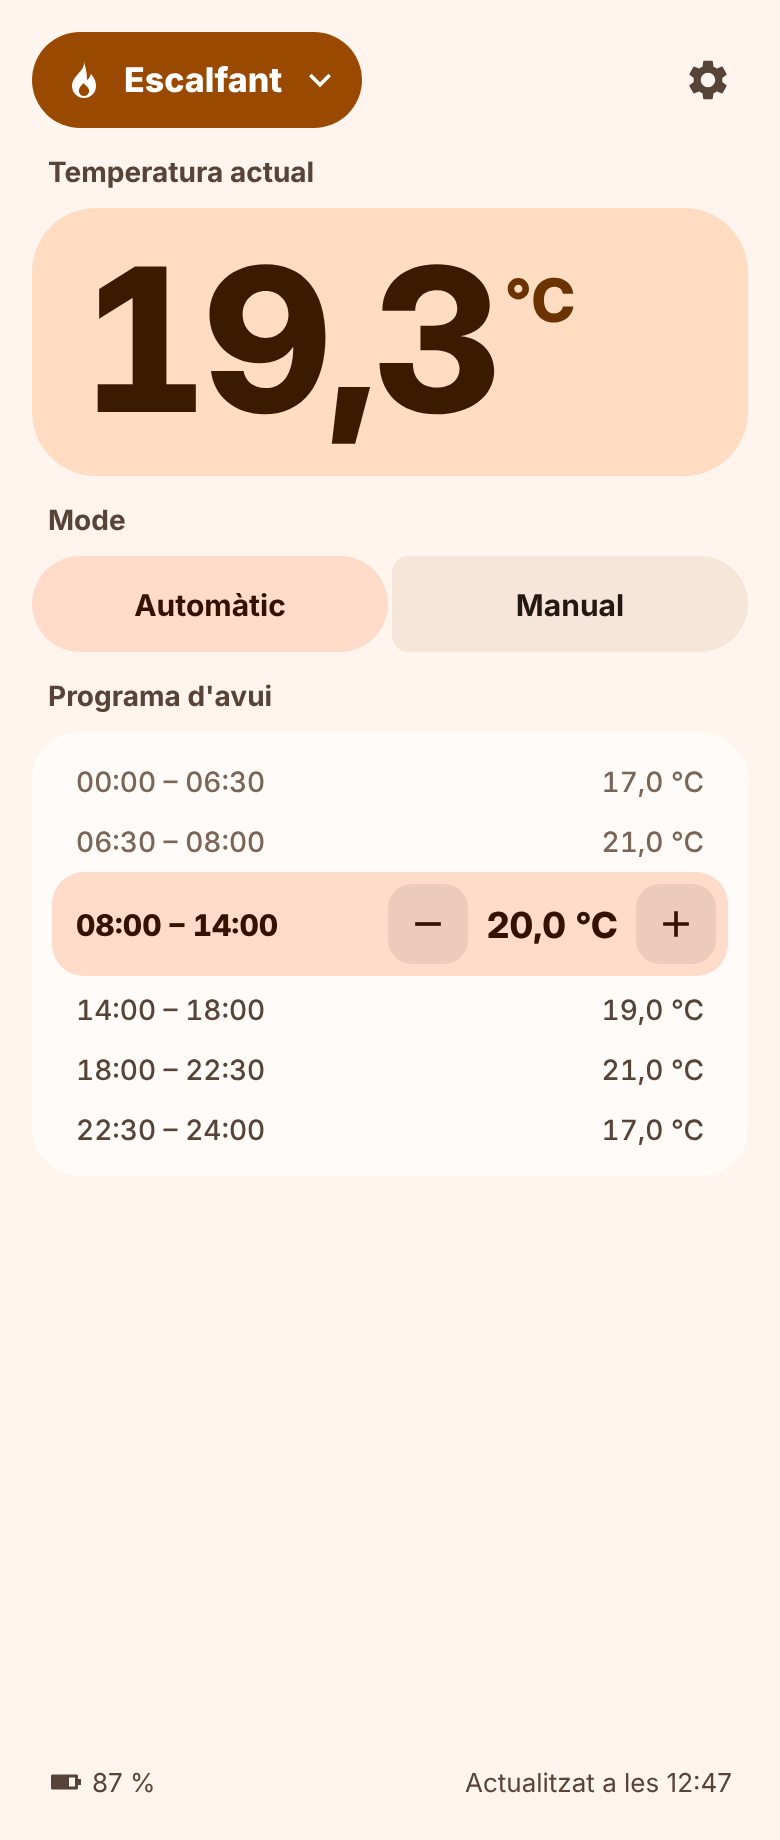
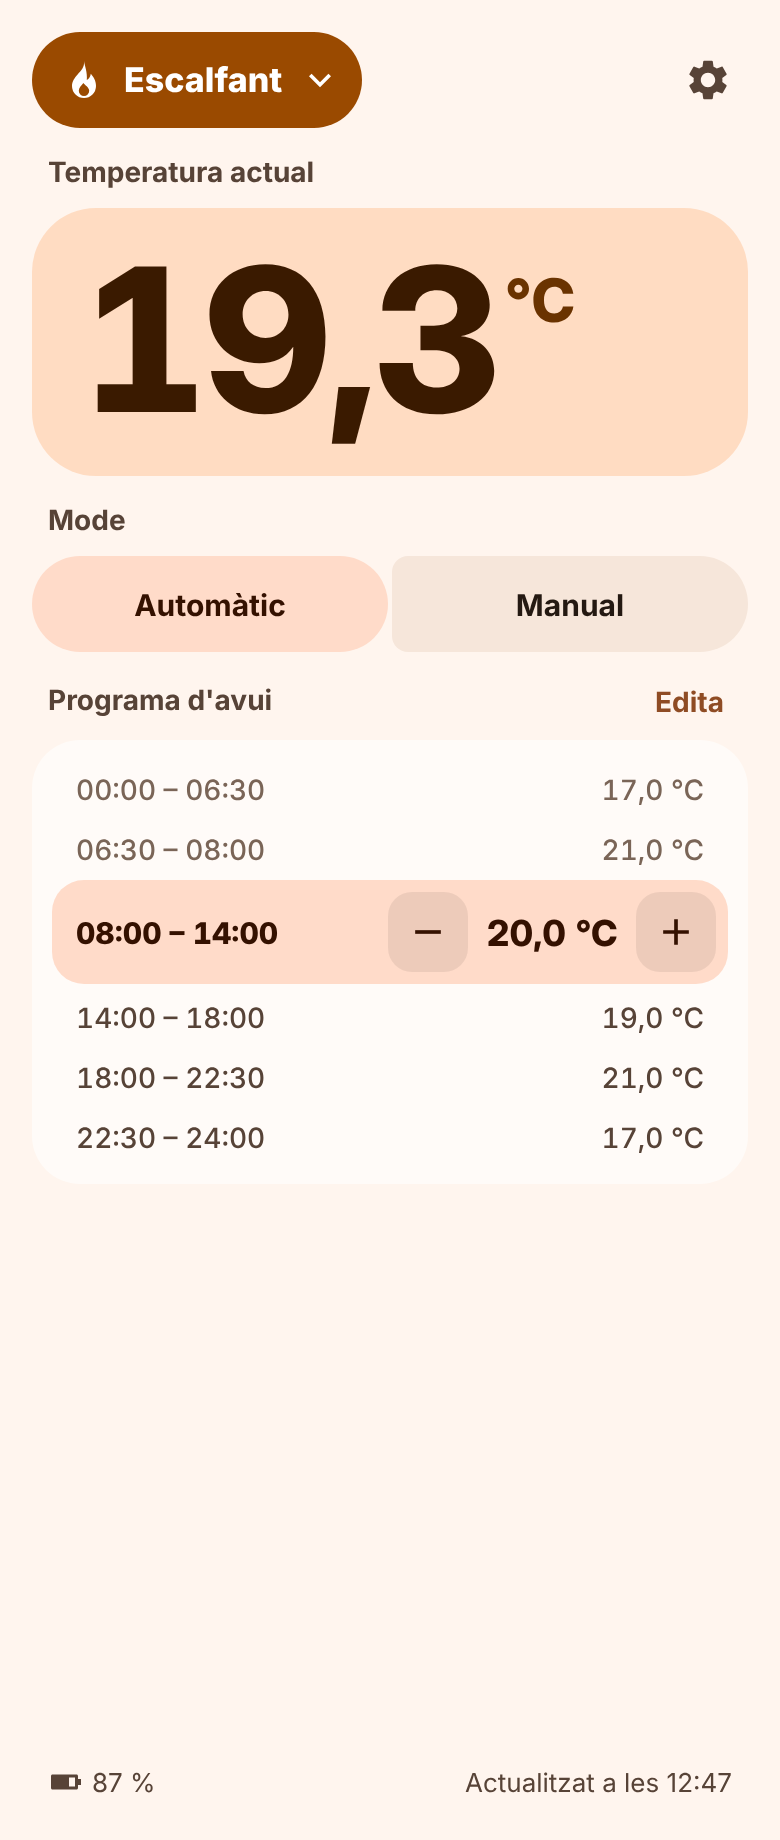
Add the weekly program screen to the Caliu plan
Bring in the updated Claude Design handoff (weekly program, Wear OS,
Android Auto and icon), add phase 9 for the weekly program and mark
the faster refresh as done.

Changed region(s): [[0.0615, 0.3717, 0.9231, 0.6196]]

diff --git a/android/docs/fases.md b/android/docs/fases.md
@@ -100,7 +100,8 @@ handoff fan servir Inter i icones aproximades).
 ## Fase 4 · Lògica de la pantalla principal
 
 - ☑ `HomeViewModel`:
-  - refresc cada 60 s amb l'app en primer pla (`repeatOnLifecycle(STARTED)`) i pull-to-refresh;
+  - refresc amb l'app en primer pla (`repeatOnLifecycle(STARTED)`) i pull-to-refresh. Al principi era cada 60 s; ara
+    és cada 15 s (vegeu «Refresc més freqüent»);
   - ordres optimistes que es reverteixen si fallen, amb el Snackbar «No s'ha pogut aplicar el canvi»;
   - debounce de 800 ms per a −/+;
   - límits `[min, max]`, amb els botons desactivats als extrems.
@@ -233,6 +234,58 @@ que construeix el CI.
   fent servir el simulat si no es posa `caliu.realThermostat=true` a `local.properties`. Les PR construeixen sense
   secrets ni termòstat real.
 
-## Pendent: refresc més freqüent
+## Refresc més freqüent
 
-L'app de Tuya rep els canvis en temps real (MQTT/Pulsar del núvol), però el nostre projecte d'OpenAPI no ho té a l'abast d'una app. En lloc d'això, mentre l'app sigui en primer pla, consultarà l'estat cada pocs segons (ara és cada 60 s, `HomeViewModel.REFRESH_INTERVAL`) per veure els canvis fets des de fora (botons físics, Smart Life). Cal vigilar la quota de crides de l'OpenAPI abans de triar l'interval.
+- ☑ L'app de Tuya rep els canvis en temps real (MQTT/Pulsar del núvol), però el nostre projecte d'OpenAPI no ho té a
+  l'abast d'una app. En lloc d'això, amb l'app en primer pla es llegeix l'estat cada 15 s
+  (`HomeViewModel.REFRESH_INTERVAL`), i després de cada ordre cada 2 s fins que canvia `heating` (30 s com a màxim).
+  Fet el 2026-11-02 (`e7ea9a8`).
+
+## Fase 9 · Programa setmanal
+
+Nova pantalla del handoff (2026-11-02): `disseny/docs/01` § Programa setmanal, `disseny/docs/02` (files «Programa · …»)
+i les captures `19-programa-edit`, `-copy`, `-time` i `-copied`, en clar i fosc. Els textos nous són a
+`disseny/android/strings.xml` (`schedule_*`, `weekday_short`, `weekday_long`).
+
+Escriu el programa del termòstat real, que és el que fa anar la calefacció de casa. El 2026-11-01 un byte de més ja el
+va corrompre: **cap escriptura al dispositiu real sense permís de l'usuari**, i després de desar cal mirar-lo a Smart Life.
+
+- ☐ Pantalla principal: el botó de text «Edita» a la dreta del títol «Programa d'avui», només en mode Automàtic. Les
+  captures `01`, `02` i `04`–`07` han canviat per això: cal tornar a generar-ne els tests de captures.
+- ☐ `WeekProgramEncoder`: l'invers de `WeekProgramDecoder`, 25 bytes `[dia, (h, min, temp×10 u16 BE)×6]`, **sense byte de
+  recompte**. Tests d'anada i tornada amb el valor real del dispositiu, i que la mida sigui sempre 25.
+- ☐ `TuyaApi` / `ThermostatRepository`: llegir els 7 dies (`week_program_13_1` … `_7`, ja es llegeixen per al programa
+  d'avui) i escriure'n un per `shadow/properties/issue`. Al `FakeThermostatRepository`, desar-lo en memòria (amb
+  `failure` per provar l'error d'un dia).
+- ☐ `ScheduleViewModel`: còpia de treball dels 7 dies; dia seleccionat (avui en obrir); dies modificats; −/+ a passos de
+  0,5 °C dins `[min, max]`; hora de cada tram entre la de l'anterior i la del següent; copiar un dia a d'altres;
+  desar només els modificats, una ordre per dia, i deixar marcat el que falli.
+- ☐ Components a `:designsystem` amb previews: selector de dia (7 `ToggleButton` connectats, anell a avui, punt als
+  modificats), barra de 24 h (segments proporcionals, 5 nivells de color de `heat-hero` a `heat`, marques 0·6·12·18·24)
+  i la fila de tram (hora en píndola tonal, temperatura amb −/+).
+- ☐ `ScheduleScreen`: `LargeFlexibleTopAppBar` amb «Desa» (com Configuració), `TimePickerDialog` 24 h,
+  `ModalBottomSheet` «Copia el … a» (dies en selecció múltiple, dreceres Feiners · Cap de setmana · Tots), Snackbar
+  «Copiat a N dies» i `AlertDialog` «Descartar els canvis?» en sortir amb canvis. Ruta nova a Navigation 3.
+- ☐ Textos `schedule_*` a `values-ca/` i la traducció a `values/` (anglès).
+- ☐ Tests del ViewModel i tests de captures `19-programa-*` (el full inferior i el selector d'hora, si layoutlib no els
+  pinta, com a previews, igual que la `02`).
+- ☐ Desar, amb permís, un canvi petit al dispositiu real, tornar-lo a llegir i comprovar-lo a Smart Life.
+
+**Per decidir abans de començar** (el handoff ho deixa «a verificar amb el dispositiu», i ja ho sabem):
+
+- Trams per dia: el format en té sempre **6**, no 4.
+- Dies: el dispositiu desa **cada dia per separat** (7 DPs) i no agrupa feiners / cap de setmana, així que el selector
+  mostra els 7 dies.
+- Primer tram: al dispositiu **no comença a les 00:00** (el programa real comença a les 06:15) i de 00:00 al primer tram
+  s'aplica l'últim del dia anterior. El handoff el fixa a 00:00 i no es pot moure. Cal triar entre mostrar els 6 trams
+  del dispositiu tots amb hora editable (la barra de 24 h pinta de 00:00 al primer tram amb el color de l'últim) o fixar
+  el primer a 00:00, que canviaria el programa que hi ha ara.
+
+**Validació:** tests JVM i de captures, ktlint, provar-ho a l'emulador amb el termòstat simulat i, amb permís, una
+escriptura real comprovada a Smart Life.
+
+## Fora de l'abast, de moment
+
+El handoff nou també porta Wear OS (`disseny/docs/04-wear-i-auto.md`, captura `16`), Android Auto (captura `17`) i
+l'estructura de mòduls `:core` / `:app` / `:wear` / `:car`. Segueixen fora de l'abast fins que l'usuari ho decideixi.
+La icona (captura `18`, `disseny/android/icona/`) ja es va fer (`e277996`, amb la marca DEV a la debug a `94441fe`).

diff --git a/android/docs/README.md b/android/docs/README.md
@@ -4,7 +4,8 @@ App d'Android per controlar l'únic termòstat de casa (R11, Tuya Cloud). S'obre
 onboarding, comptes ni llista de dispositius.
 
 - `disseny/` conté el paquet de Claude Design tal com va arribar: especificació, components, notes de Tuya, colors,
-  tipografia, textos, tokens i 29 captures. **És la font de veritat del disseny.** No s'edita: si cal desviar-se'n,
+  tipografia, textos, tokens, icona i 40 captures. La versió actual és la del 2026-11-02, que hi
+  afegeix el programa setmanal, Wear OS, Android Auto i la icona. **És la font de veritat del disseny.** No s'edita: si cal desviar-se'n,
   s'apunta a la secció «Diferències» d'aquí sota.
 - `fases.md` recull les fases d'implementació, amb els passos i com es valida cadascuna.
 
@@ -14,14 +15,16 @@ Està dins l'abast:
 
 - La pantalla principal, amb tots els estats de les captures `01`–`11`.
 - La pantalla de configuració (captures `12`–`14`).
+- El programa setmanal (captures `19-programa-*`), des del botó «Edita» de la pantalla principal.
+- La icona adaptativa (captura `18`).
 - Dos widgets Glance (2×1 i 4×2) i una rajola de configuració ràpida (captura `15`).
 - La distribució com a APK de debug des del CI de GitHub (artifact `caliu-debug`). No hi ha release ni botiga.
 
 Queda fora de l'abast:
 
-- Editar el programa setmanal. Només es mostra el programa d'avui i se'n pot canviar el tram actiu, cosa que crea un canvi
-  temporal.
-- Més d'un dispositiu, Google Play, Firebase App Distribution i Wear OS.
+- Més d'un dispositiu, Google Play i Firebase App Distribution.
+- Wear OS i Android Auto (captures `16` i `17`, `disseny/docs/04-wear-i-auto.md`), amb els mòduls `:core`, `:wear` i
+  `:car` que hi proposa el handoff. Estan dissenyats però no s'han demanat.
 
 ## Decisions
 
@@ -57,6 +60,8 @@ macOS (`macOS/Sources/TuyaClient.swift`) i pel `CLAUDE.md` de l'arrel, i **mana 
 | Mode `auto` / `manual` | Té `home` (manual), `auto` i `temporary`. A `/v1.0/.../commands` només s'accepta `auto`. | `MANUAL` ↔ `home` i `AUTO` ↔ `auto`. El mode s'escriu sempre per v2 (`shadow/properties/issue`). |
 | Override «a gestionar» | Si es toca la consigna en `auto`, el dispositiu passa sol a `temporary` fins al tram següent. | `override` existeix quan el mode és `temporary`. «Fins a les HH:MM» és el final del tram actiu, calculat a partir del programa. «Tornar al programa» envia `mode = auto`. |
 | `heating` per `work_state` o derivat | `work_state` (`heating`/`stop`) només surt per v2 (`shadow/properties`). | Es llegeix per v2, i només es deriva si no hi és. |
+| Programa setmanal: 4 o 6 trams, dies agrupats? (a verificar segons el handoff) | Sempre 6 trams, i cada dia és un DP a part (`week_program_13_1` … `_7`). | 6 trams i selector de 7 dies. |
+| Programa setmanal: el primer tram és a les 00:00 i no es mou | El primer tram té hora lliure (06:15 al programa real). | Per decidir a la fase 9. |
 | Programa: hora del primer tram | El programa real comença a les 06:15, no a les 00:00 (llegit el 2026-11-01). Els 7 dies tenen els mateixos trams. | De 00:00 al primer tram s'aplica la consigna de l'últim tram, que és el que continua del dia anterior. |
 | Programa genèric | `week_program_13_1` … `_7` en base64 de 25 bytes `[dia, (h, min, temp×10 u16 BE)×6]`, **sense byte de recompte** (el 2026-11-01 en vam escriure un de més i va corrompre el programa), llegit per v2. | El decodificador es porta de `ScheduleSlot.decode`, amb tests. Cada tram acaba on comença el següent, i l'últim a les 24:00. |
 | Escala a l'especificació | Valors enters ×10 (`temp_set` 220 = 22,0 °C), amb pas de 5 (0,5 °C). El model diu fins a 600, però `upper_temp` és 350 i `lower_temp` 50. | Tot es configura a `ThermostatDpMap`. |

diff --git a/android/docs/disseny/docs/04-wear-i-auto.md b/android/docs/disseny/docs/04-wear-i-auto.md
@@ -1,0 +1,56 @@
+# 04 · Wear OS i Android Auto
+
+Mateixa lògica i mateixa capa de dades que l'app de mòbil (mòdul compartit `:core` amb el client de Tuya, el model d'estat i les regles de pausa). Captures `16-wear-os.png` i `17-android-auto.png`.
+
+## Wear OS
+
+Mòdul `:wear`, **Compose for Wear OS amb Material 3 per a Wear** (`androidx.wear.compose:compose-material3`). No inventar components: fer servir els d'aquesta llibreria.
+
+### App autònoma
+
+- `com.google.android.wearable.standalone = true`: funciona sense el mòbil a prop (wifi o LTE del rellotge) cridant Tuya directament.
+- Credencials: s'envien **una vegada** des de l'app del mòbil per la **Data Layer API** i es desen xifrades al rellotge. Sense credencials, pantalla «Falta la configuració» amb `EdgeButton` «Obre al mòbil» (obre la configuració al telèfon amb `RemoteActivityHelper`).
+- Refresc: en obrir l'app i cada 60 s mentre és en primer pla; la tile i les complicacions, amb la freqüència del sistema i en cada ordre.
+
+### Pantalla principal
+
+| Element | Component Wear M3 |
+|---|---|
+| Contenidor | `AppScaffold` + `ScreenScaffold` amb `TimeText` |
+| Anell de la vora en color d'accent de l'estat | `CircularProgressIndicator` a pantalla completa (progrés decoratiu = posició de la consigna dins el rang) |
+| Xip d'estat | `Button` compacte (`CompactButton`) amb icona, colors d'accent del mood |
+| Temperatura actual | `Text` Nunito 800, ~50 sp |
+| Consigna | `IconButton` circulars −/+ i **corona** (`Modifier.rotaryScrollable` / `onRotaryScrollEvent`) a passos de 0,5 °C, amb el mateix debounce de 800 ms |
+| Acció principal | `EdgeButton`: **Pausa** (en actiu) / **Activa** (en pausa) |
+| Llista en lliscar | `TransformingLazyColumn`: títol «Mode» → `RadioButton`/`ToggleButton` Automàtic / Manual; «Temperatures ràpides» → tres `Button` circulars 20° 21° 23°; **Apaga** com a `Button` de text atenuat al final |
+
+En pausa: paleta lila, consigna a recuperar amb vora discontínua i atenuada, `EdgeButton` «Activa».
+
+### Colors al rellotge
+
+Sempre fosc i fons `#000000`. De `android/Color.kt` es fan servir les paletes **fosques**: `accent`/`onAccent` per al xip, l'anell i les dreceres seleccionades; `hero`/`onHero` per a la targeta de la tile; `primaryContainer` per a l'`EdgeButton` «Pausa».
+
+### Tile
+
+ProtoLayout Material 3 (`androidx.wear.protolayout:protolayout-material3`): `primaryLayout` amb títol «Termòstat», contingut principal = targeta hero amb la temperatura i l'estat, i `EdgeButton` **Pausa/Activa** que envia l'ordre directament.
+
+### Complicacions
+
+`ComplicationDataSourceService` amb:
+- `RANGED_VALUE`: temperatura actual dins el rang [min, max], icona flama/pausa, text «19°».
+- `SHORT_TEXT`: «19,3°» amb icona d'estat.
+- Tocar-les obre l'app.
+
+## Android Auto
+
+Mòdul `:car` amb la **Car App Library** (`androidx.car.app`), categoria **IoT** (`androidx.car.app.category.IOT`). Comprovar els requisits de qualitat de Google per a aquesta categoria abans de publicar.
+
+- Només plantilles: **`GridTemplate`**. No hi ha interfície a mida.
+- Títol de la plantilla: «19,3 °C · Escalfant» (temperatura + estat).
+- Icona de capçalera i element principal amb `CarColor` personalitzat (accent del mood, clar i fosc).
+- Elements de la graella:
+  1. **Pausa** (`pause`) o, en pausa, **Activa** (`play_arrow`, text secundari «Torna a 20,0 °C»).
+  2. **20 °C**, **21 °C**, **23 °C** (icones amb el número). La consigna actual porta el text secundari «Consigna».
+- `ActionStrip`: **Apaga** (secundari).
+- Tocar una temperatura en pausa surt de la pausa amb aquella consigna.
+- Refresc en obrir la pantalla i després de cada ordre; `invalidate()` per redibuixar.

diff --git a/android/docs/disseny/README.md b/android/docs/disseny/README.md
@@ -6,14 +6,16 @@ App d'Android personal per controlar **un sol termòstat Wi‑Fi de calefacció*
 
 | Ruta | Contingut |
 |---|---|
-| `docs/01-especificacio.md` | Comportament funcional: pantalles, estats, regles de negoci, refresc, errors, widgets i rajola |
+| `docs/01-especificacio.md` | Comportament funcional: pantalles, estats, regles de negoci, refresc, errors, programa setmanal, widgets i rajola |
 | `docs/02-disseny-i-components.md` | Sistema de disseny **Caliu** i quin component de **Material 3 Expressive** (Compose) s'usa per a cada element |
 | `docs/03-tuya-api.md` | Com parlar amb Tuya Cloud (signatura, endpoints, codis de dades) i què s'ha de verificar amb el dispositiu real |
+| `docs/04-wear-i-auto.md` | App de Wear OS (autònoma), tile, complicacions i Android Auto (Car App Library) |
+| `android/icona/` | Icona adaptativa: fons, primer pla i capa monocroma en SVG, i 512 px per a Play |
 | `android/Color.kt` | Paletes per estat (escalfant, en repòs, en pausa, apagat) en clar i fosc, mapejades a `ColorScheme` |
 | `android/Type.kt` | Tipografia (Roboto Flex + Nunito per a les xifres) |
 | `android/strings.xml` | Tots els textos de la interfície en català |
 | `design/tokens.json` | Tokens del sistema Caliu (font de veritat dels colors, mides, radis) |
-| `captures/` | 29 captures: totes les pantalles i estats en clar i fosc, configuració, widgets i rajola. Índex a `captures/INDEX.md` |
+| `captures/` | 40 captures: totes les pantalles i estats en clar i fosc, configuració, programa setmanal, widgets i rajola, Wear OS, Android Auto i icona. Índex a `captures/INDEX.md` |
 
 > Les captures s'han renderitzat amb Inter com a substitut tipogràfic i amb icones Material aproximades. A l'app la tipografia és **Roboto Flex** (interfície) i **Nunito** (xifres de temperatura), i les icones **Material Symbols Rounded**.
 
@@ -34,6 +36,11 @@ Regles:
   configurables: s'han de verificar amb el meu dispositiu.
 - Arquitectura: una sola Activity, MVVM amb StateFlow, Ktor o Retrofit + OkHttp, DataStore,
   credencials xifrades amb Android Keystore, Glance per als widgets i TileService per a la rajola.
+- Mòduls: :core (Tuya, model d'estat, regles de pausa), :app (mòbil, tablet i plegables),
+  :wear (Compose for Wear OS Material 3, tile i complicacions) i :car (Car App Library, categoria IoT).
+  Wear i Auto segueixen docs/04-wear-i-auto.md.
+- Icona: android/icona/ (adaptativa amb capa monocroma).
 - Comença proposant l'estructura de mòduls i el pla; després implementa per fases
-  (tema → pantalla principal amb dades falses → capa Tuya → configuració → widgets i rajola).
+  (tema → pantalla principal amb dades falses → capa Tuya → configuració → programa setmanal → widgets i rajola
+  → Wear → Auto).
 ```

diff --git a/android/docs/disseny/docs/02-disseny-i-components.md b/android/docs/disseny/docs/02-disseny-i-components.md
@@ -74,6 +74,13 @@
 | Camps | `TextField` (filled) dins targetes connectades; secret amb `SecureTextField` o `TextField` + `VisualTransformation` i `IconButton` visibilitat | |
 | Regió | `ButtonGroup` connectat amb `ToggleButton` | EU · US · CN · IN |
 | Provar connexió | `FilledTonalButton` amb icona; resultat en `Card` (èxit: hero de «calm»; error: `errorContainer`) | Durant la prova: `LoadingIndicator` petit |
+| Programa · barra | `LargeFlexibleTopAppBar` amb `arrow_back` i `Button("Desa")` | Com Configuració |
+| Programa · selector de dia | `ButtonGroup` connectat amb 7 `ToggleButton` | Avui: vora `outline`; modificat: punt `primary` (`BadgedBox`/`Badge` petit) |
+| Programa · barra de 24 h | `Canvas`/`Row` de `Box`es amb pesos proporcionals | Element visual, no interactiu |
+| Programa · trams | `Card` amb `ListItem`: hora en `FilledTonalButton` píndola, temperatura amb `FilledTonalIconButton` −/+ | |
+| Programa · hora | `TimePickerDialog` amb `TimePicker` (`is24Hour = true`) | |
+| Programa · copiar | `FilledTonalButton` → `ModalBottomSheet` amb `ToggleButton`s de dia (multiselecció), `FilterChip`/`AssistChip` per a les dreceres, `TextButton` + `Button` | |
+| Programa · confirmació de sortida | `AlertDialog` | |
 | Widgets | Jetpack **Glance** (`GlanceAppWidget`, `GlanceTheme` amb `ColorProviders` derivats d'`Color.kt`) | Glance no té M3E: fer servir els seus `Box/Row/Text/Image`, `CircleIconButton`/`SquareIconButton` |
 | Rajola | `TileService` | `Tile.label`, `Tile.subtitle`, `Tile.state` |
 

diff --git a/android/docs/disseny/captures/INDEX.md b/android/docs/disseny/captures/INDEX.md
@@ -20,3 +20,10 @@ Tipografia i icones substitutes (Inter i icones Material aproximades); colors, m
 | `13-config-prova-ok` | Provar connexió: correcta |
 | `14-config-prova-error` | Provar connexió: error |
 | `15-widgets-i-rajola` | Widgets 2×1 i 4×2 i rajola de configuració ràpida, en clar i fosc |
+| `16-wear-os` | Wear OS: app (escalfant, en pausa, llista), tile, complicacions i estat sense configurar |
+| `17-android-auto` | Android Auto: GridTemplate en actiu i en pausa |
+| `18-icona` | Icona adaptativa, màscares del llançador, icona temàtica i Wear |
+| `19-programa-edit` | Programa setmanal: selector de dia, barra de 24 h i 6 trams |
+| `19-programa-copy` | Full inferior «Copia el dilluns a» amb dies i dreceres |
+| `19-programa-time` | Selector d'hora d'inici d'un tram |
+| `19-programa-copied` | Després de copiar: dies marcats com a modificats i Snackbar |

diff --git a/android/docs/disseny/android/icona/README.md b/android/docs/disseny/android/icona/README.md
@@ -1,0 +1,11 @@
+# Icona de l'app
+
+Icona adaptativa (108 × 108 dp, zona segura central de 66 dp):
+
+- `ic_launcher_background.svg` · color pla `#FFDCC2` (heat-hero clar). A Android, millor com a `<color>` a `colors.xml`.
+- `ic_launcher_foreground.svg` · arc de termòstat (pista `#F4B88E`, progrés i tirador `#9A4A00`) i flama `#9A4A00`.
+- `ic_launcher_monochrome.svg` · capa per a icones temàtiques (Android 13+): la pista al 35 % d'opacitat.
+- `play-store-512.svg` · icona de 512 px a sang per a la fitxa de Google Play (si mai cal). També en PNG: `play-store-512.png`.
+
+Converteix els SVG a Vector Drawable amb Android Studio (File › New › Vector Asset) i declara-ho a `mipmap-anydpi-v26/ic_launcher.xml` amb `<background>`, `<foreground>` i `<monochrome>`.
+Wear OS fa servir la mateixa icona dins de la màscara circular.
